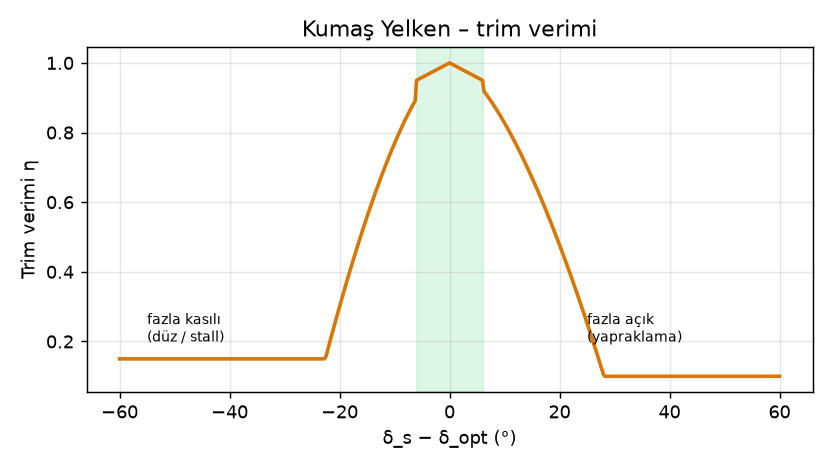
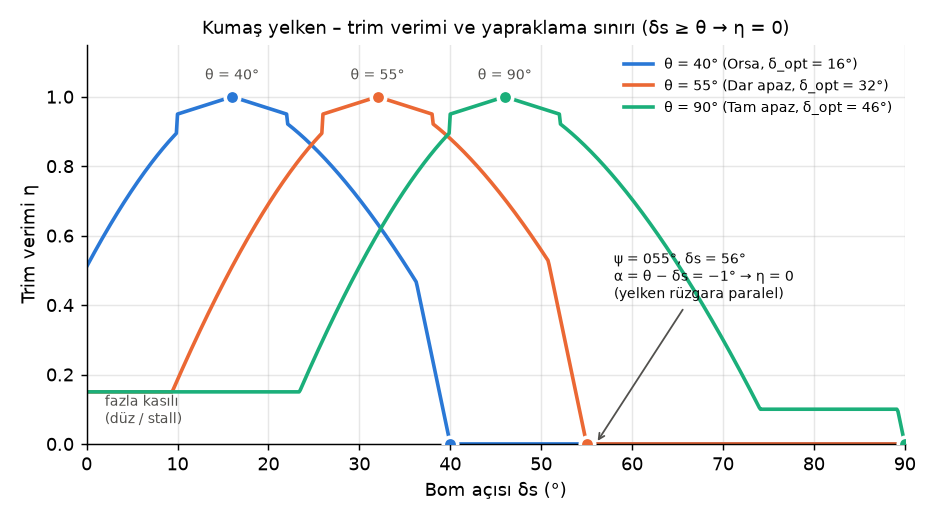
Yelken açısına bağlı yapraklama ve ölü açı
* Trim verimi yelkenin rüzgara hücum açısını (α = TWA − |bom|) hesaba katıyor:
  bom rüzgar yönüne kadar açılınca (α ≤ 0) yelken yapraklar, itki sıfır;
  0 < α < 8° aralığında verim α/8° ile sınırlı. Örn. pruva 055°, bom 56°
  artık 41.7 m değil 0 m gidiyor.
* Ölü açı elle trimde ±max(30°, |bom|): arayüzdeki kama, sınır etiketleri,
  seyir tipi ve uyarılar bom açısıyla güncelleniyor. Auto-trim ve navigasyon
  sonuçları değişmiyor.
* Testler, trim verimi grafiği ve RAPOR.md (Adım 1, Adım 3, Bölüm 8, H9–H10).

diff --git a/app.py b/app.py
@@ -146,14 +146,20 @@ analyze_points_of_sail_360 = sm.analyze_points_of_sail_360
 # --- SİMÜLASYON VE ÇİZİM ÇEKİRDEĞİ ---
 def simulate_catamaran(heading_deg, sail_input_deg, rudder_deg, wind_speed_ms, sim_time_s, auto_trim=False, phys=sm.PHYS):
     """
-    330°-030° Ölü Açı sektörü, kumaş yelken poları, dümen kinematiği ve merkezi katamaran
+    Bom açısına bağlı ölü açı sektörü, kumaş yelken poları, dümen kinematiği ve merkezi katamaran
     görselleştirmesi (tek yelken modeli: Kumaş Yelken – Cambered / Klasik).
     """
     profile = sm.PROFILE
 
     # 1. BAŞLANGIÇ SEYİR DURUMU (360 Derece Analiz):
-    regime, opt_sail, max_speed_ratio, tack, wind_side, leeward_sign, desc = sm.analyze_points_of_sail_360(heading_deg)
-    is_in_irons = (regime == sm.NO_GO_REGIME)
+    # Ölü açı ±max(30°, |bom|): bom elle açıldıkça yelken rüzgara paralel kalacağı sektör genişler
+    manual_sail = None if auto_trim else sail_input_deg
+    regime, opt_sail, max_speed_ratio, tack, wind_side, leeward_sign, desc = sm.analyze_points_of_sail_360(
+        heading_deg, sail_deg=manual_sail)
+    twa = sm.true_wind_angle(heading_deg)
+    dead_zone = sm.dead_zone_deg(manual_sail)
+    is_in_irons = twa <= sm.NO_GO_DEG           # teknenin kendi sınırı: hiçbir bom açısında itki yok
+    in_dead_zone = (regime == sm.NO_GO_REGIME)  # bom açısına göre ölü açı: yelken yapraklar, itki yok
 
     # Otomatik trim seçeneği veya kullanıcının ayarı
     if auto_trim and not is_in_irons:
@@ -165,7 +171,8 @@ def simulate_catamaran(heading_deg, sail_input_deg, rudder_deg, wind_speed_ms, s
     if is_in_irons:
         trim_efficiency, trim_status, badge_type, camber_amount = 0.0, "Yelken Dolmuyor (Yapraklıyor)", "badge-dead", 0.0
     else:
-        trim_efficiency, trim_status, badge_type, camber_amount = sm.trim_efficiency(sail_boom_angle, opt_sail, profile)
+        trim_efficiency, trim_status, badge_type, camber_amount = sm.trim_efficiency(
+            sail_boom_angle, opt_sail, profile, twa)
 
     # 3. DÜMEN VE FRENLEME ETKİSİ:
     rudder_clamped = float(np.clip(rudder_deg, -sm.RUDDER_MAX_DEG, sm.RUDDER_MAX_DEG))
@@ -188,12 +195,21 @@ def simulate_catamaran(heading_deg, sail_input_deg, rudder_deg, wind_speed_ms, s
     fig.patch.set_facecolor('#ffffff')
     ax.set_facecolor('#f8fafc')
 
-    # 1. ÖLÜ AÇI (NO-GO ZONE) 330° - 030° SEKTÖRÜ (60 DERECE):
-    # Matematiksel açılar: 030° pusula = 60° mat, 330° pusula = 120° mat
-    no_go_wedge = Wedge((0, 0), 8.5, 60, 120, facecolor='#fee2e2', edgecolor='#ef4444', 
+    # 1. ÖLÜ AÇI (NO-GO ZONE) SEKTÖRÜ: rüzgar ekseni etrafında ±dead_zone (30°, bom elle açıldıkça genişler)
+    # Matematiksel açı = 90° − pusula açısı: ±dead_zone pusula -> [90° − dead_zone, 90° + dead_zone] mat
+    no_go_wedge = Wedge((0, 0), 8.5, 90 - dead_zone, 90 + dead_zone, facecolor='#fee2e2', edgecolor='#ef4444',
                         alpha=0.32, linestyle='--', lw=1.2, zorder=1)
     ax.add_patch(no_go_wedge)
-    ax.text(0, 5.5, "ÖLÜ AÇI (NO-GO ZONE)\n330° - 030° (Rüzgara Karşı)", 
+    no_go_txt = f"ÖLÜ AÇI (NO-GO ZONE)\n{360 - dead_zone:03.0f}° - {dead_zone:03.0f}° (Rüzgara Karşı)"
+    show_hull_limit = dead_zone - sm.NO_GO_DEG >= 10.0   # 030°/330° sınırı yalnızca bom sınırından ayrışınca çizilir
+    if dead_zone > sm.NO_GO_DEG:
+        no_go_txt += f"\nbom {sail_boom_angle:.0f}° açık → ±{dead_zone:.0f}°"
+    if show_hull_limit:
+        # Teknenin kendi sınırı (±30°): bom kasılsa bile bu sektörde itki yok
+        for sgn in (-1.0, 1.0):
+            ax.plot([0, sgn * 8.5 * np.sin(np.radians(sm.NO_GO_DEG))], [0, 8.5 * np.cos(np.radians(sm.NO_GO_DEG))],
+                    color='#ef4444', linestyle=':', lw=1.0, alpha=0.6, zorder=1)
+    ax.text(0, 5.5, no_go_txt,
             ha='center', va='center', color='#b91c1c', fontweight='bold', fontsize=8.2, zorder=2)
 
     # 2. Dairesel Pusula Kılavuzları (2m, 4m, 6m, 8m)
@@ -207,9 +223,13 @@ def simulate_catamaran(heading_deg, sail_input_deg, rudder_deg, wind_speed_ms, s
     ax.text(0, -8.4, "180° GÜNEY", ha='center', va='top', fontsize=8.8, fontweight='bold', color='#1e293b')
     ax.text(-8.4, 0, "270° BATI", ha='right', va='center', fontsize=8.8, fontweight='bold', color='#1e293b')
 
-    # Ölü açı sınırları (030° ve 330°)
-    ax.text(4.3, 7.3, "030°", ha='left', va='bottom', fontsize=8.2, fontweight='bold', color='#dc2626')
-    ax.text(-4.3, 7.3, "330°", ha='right', va='bottom', fontsize=8.2, fontweight='bold', color='#dc2626')
+    # Ölü açı sınırları: teknenin sınırı (030° / 330°) ve bom genişlettiyse bom sınırı (pusula yönlerine çakışmadan)
+    edges = ([sm.NO_GO_DEG] if dead_zone == sm.NO_GO_DEG or show_hull_limit else []) + \
+            ([dead_zone] if sm.NO_GO_DEG < dead_zone <= 75.0 else [])
+    for edge in edges:
+        ex, ey = 8.5 * np.sin(np.radians(edge)), 8.5 * np.cos(np.radians(edge))
+        ax.text(ex, ey, f"{edge:03.0f}°", ha='left', va='bottom', fontsize=8.2, fontweight='bold', color='#dc2626')
+        ax.text(-ex, ey, f"{360 - edge:03.0f}°", ha='right', va='bottom', fontsize=8.2, fontweight='bold', color='#dc2626')
     ax.text(6.0, -6.0, "135°", ha='center', va='center', fontsize=7.8, color='#64748b')
     ax.text(-6.0, -6.0, "225°", ha='center', va='center', fontsize=7.8, color='#64748b')
 
@@ -293,7 +313,7 @@ def simulate_catamaran(heading_deg, sail_input_deg, rudder_deg, wind_speed_ms, s
     tip_ly = 0.2 + boom_len * u_chord[1]
     tip_w = rot(tip_lx, tip_ly)
 
-    if is_in_irons:
+    if in_dead_zone:
         num_w = 20
         wt = np.linspace(0, 1, num_w)
         wave_lx = wt * tip_lx + 0.15 * np.sin(4 * np.pi * wt)
@@ -325,7 +345,7 @@ def simulate_catamaran(heading_deg, sail_input_deg, rudder_deg, wind_speed_ms, s
         ax.add_patch(patches.Polygon(fill_poly_w, closed=True, facecolor='#2563eb', alpha=0.22, zorder=7))
 
     # 8. TEKNENİN GİTTİĞİ DOĞRULTU VE SİMÜLASYON YOLU:
-    if total_distance_m > 1.0 and not is_in_irons:
+    if total_distance_m > 1.0 and not in_dead_zone:
         max_dist_to_show = max(total_distance_m, 1.0)
         scale_factor = min(1.0, 7.2 / max_dist_to_show)
         scaled_tx = [x * scale_factor for x in traj_x]
@@ -354,7 +374,14 @@ def simulate_catamaran(heading_deg, sail_input_deg, rudder_deg, wind_speed_ms, s
                 bbox=dict(boxstyle='round,pad=0.25', facecolor='#d1fae5', edgecolor='#10b981', alpha=0.95),
                 zorder=15)
     else:
-        ax.text(0, 0, "[!] ÖLÜ AÇI / İTKİ YOK\nYelken Dolmuyor (Kör Nokta)", color='#b91c1c', fontsize=8.5, fontweight='bold',
+        if is_in_irons:
+            no_drive_txt = "[!] ÖLÜ AÇI / İTKİ YOK\nYelken Dolmuyor (Kör Nokta)"
+        elif in_dead_zone:
+            no_drive_txt = (f"[!] ÖLÜ AÇI / İTKİ YOK: Bom ({sail_boom_angle:.0f}°) ≥ Rüzgar Açısı ({twa:.0f}°)\n"
+                            f"Yelken rüzgara paralel, yapraklıyor – bomu {opt_sail:.0f}°'ye kasın")
+        else:
+            no_drive_txt = f"[!] İTKİ ÇOK DÜŞÜK\n{sim_time_s:.0f} sn'de {total_distance_m:.1f} m"
+        ax.text(0, 0, no_drive_txt, color='#b91c1c', fontsize=8.5, fontweight='bold',
                 ha='center', va='center', bbox=dict(boxstyle='round,pad=0.35', facecolor='#fee2e2', edgecolor='#ef4444'),
                 zorder=15)
 
@@ -405,7 +432,7 @@ def simulate_catamaran(heading_deg, sail_input_deg, rudder_deg, wind_speed_ms, s
 
 # --- STREAMLIT ARAYÜZÜ ---
 st.markdown("## ⛵ Otonom Yelkenli Katamaran ve Saildrone Simülatörü")
-st.caption("360° Pusula Seyirleri • 330°-030° Ölü Açı • Kumaş Yelken (Cambered / Klasik) Polar Modeli • Realist Dümen")
+st.caption("360° Pusula Seyirleri • Ölü Açı ±max(30°, bom) • Kumaş Yelken (Cambered / Klasik) Polar Modeli • Realist Dümen")
 
 # --- TEKNENİN FİZİKSEL PARAMETRELERİ (KENAR ÇUBUĞU) ---
 # Her iki sekme de bu değerlerle kurulan sm.Physics nesnesini kullanır; değişiklikte sayfa yeniden
@@ -501,7 +528,7 @@ with tab_free:
             max_val=360,
             default_val=90,
             step=1,
-            help_text="330°-030°: Ölü Açı (60° No-Go), 030°-050°: Orsa, 050°-080°: Dar Apaz, 090°: Tam Apaz (En Hızlı), 135°: Geniş Apaz, 180°: Pupa, 270°: Sancak Kontra Tam Apaz."
+            help_text="330°-030°: Ölü Açı (60° No-Go; bom elle 30°'den fazla açılırsa ±bom açısına genişler), 030°-050°: Orsa, 050°-080°: Dar Apaz, 090°: Tam Apaz (En Hızlı), 135°: Geniş Apaz, 180°: Pupa, 270°: Sancak Kontra Tam Apaz."
         )
 
         # 3. Yelken Açısı ve Otomatik Trim
@@ -571,7 +598,8 @@ with tab_free:
                 </tbody>
             </table>
             <div style="font-size:0.75rem; color:#64748b; margin-top:5px;">
-            * Ölü Açı: 330° - 030° (TWA ≤ 30°): itki yok. Hız = λ × U × oran × trim verimi × dümen cezası
+            * Ölü Açı: TWA ≤ max(30°, bom açısı): itki yok. 330° - 030° teknenin kendi sınırıdır; bom rüzgar yönüne
+            kadar açılırsa (TWA ≤ bom) yelken rüzgara paralel kalıp yapraklar. Hız = λ × U × oran × trim verimi × dümen cezası
             (λ = hız ölçeği, varsayılan teknede 1; kenar çubuğundaki fiziksel parametrelerden türetilir).
             </div>
             """, unsafe_allow_html=True)
@@ -635,8 +663,14 @@ with tab_free:
         with st.expander("🧮 Kuvvet ve Moment Hesabı (kararlı hızda, N ve N·m)", expanded=False):
             fm = sm.force_moment_breakdown(boat_heading_val, sail_angle_val, rudder_angle_val,
                                            float(wind_speed_val), auto_trim=auto_trim_active, phys=phys)
-            if fm["drive"] == 0.0:
+            if fm["drive"] == 0.0 and fm["twa"] <= sm.NO_GO_DEG:
                 st.warning("Tekne ölü açıda: yelken yapraklıyor, itki ve yelken kuvveti sıfır; hız olmadığı için dümen de moment üretmez.")
+            elif fm["drive"] == 0.0:
+                st.warning(f"Bom ({fm['sail']:.0f}°) rüzgar açısına (TWA {fm['twa']:.0f}°) kadar boşlanmış, tekne bu bom "
+                           f"açısının ölü açısında (±{sm.dead_zone_deg(fm['sail']):.0f}°): hücum açısı "
+                           f"α = TWA − bom = {fm['twa'] - fm['sail']:.0f}° ≤ 0. Yelken rüzgara paralel, yapraklıyor; "
+                           f"itki ve yelken kuvveti sıfır. Bomu {fm['twa'] - sm.LUFF_DEG:.0f}°'nin altına kasın "
+                           f"(optimum {fm['opt']:.0f}°).")
             else:
                 st.markdown(f"""
 | Adım | Formül | Değer |

diff --git a/saildrone_model.py b/saildrone_model.py
@@ -22,7 +22,8 @@ import numpy as np
 # --- MODEL SABİTLERİ ---
 # L_HULL, RUDDER_DRAG, WEATHER_HELM_DPS ve TAU_SURGE varsayılan tekneye (Physics()) aittir;
 # kullanıcı parametreleriyle çalışan fonksiyonlar bunları phys argümanından türetir.
-NO_GO_DEG = 30.0            # Ölü açı yarı genişliği (TWA <= 30° -> itki yok)
+NO_GO_DEG = 30.0            # Teknenin ölü açı sınırı (TWA <= 30° -> itki yok); elle trimde bkz. dead_zone_deg
+LUFF_DEG = 8.0              # Yelkenin tam dolması için gereken asgari hücum açısı α = TWA − |bom| (°)
 L_HULL = 4.6                # Dönüş kinematiğinde kullanılan efektif gövde boyu (m)
 RUDDER_MAX_DEG = 35.0       # Dümen mekanik sınırı
 RUDDER_DRAG = 0.22          # Tam dümende hız kaybı oranı
@@ -56,7 +57,8 @@ POLAR = {
 TRIM = {
     "cloth": dict(tol=6.0, loss=0.05, under=(25.0, 1.6, 0.15), over=(30.0, 1.6, 0.10),
                   camber=(0.45, 0.18, 0.22), full="Tam Trim (Yelken Dolu / Torlu)",
-                  under_txt="Fazla Kasılı (Düz / Stall)", over_txt="Fazla Açık (Yapraklama)"),
+                  under_txt="Fazla Kasılı (Düz / Stall)", over_txt="Fazla Açık (Yapraklama)",
+                  luff_txt="Rüzgara Paralel (Tam Yapraklama – İtki Yok)"),
 }
 
 DESC = {
@@ -156,6 +158,17 @@ def leeward_sign(heading_deg):
     return 1.0 if h <= 180.0 else -1.0
 
 
+def dead_zone_deg(sail_deg=None):
+    """
+    Ölü açı yarı genişliği (°): rüzgar pruvaya bu açıdan dar gelirse yelken itki üretemez.
+    * NO_GO_DEG teknenin kendi sınırıdır: bom ne kadar kasılırsa kasılsın yelken kuvveti neredeyse tamamen
+      yana yönelir, ileri bileşeni direnci yenemez. Auto-trim'de (sail_deg None) ölü açı budur.
+    * Bom elle |δs| açılmışsa yelken TWA ≤ |δs|'de rüzgara paralel kalır ve yapraklar (α = TWA − |δs| ≤ 0),
+      bu yüzden ölü açı max(NO_GO_DEG, |δs|)'ye genişler.
+    """
+    return NO_GO_DEG if sail_deg is None else max(NO_GO_DEG, abs(float(sail_deg)))
+
+
 def band_index(twa):
     """TWA'nın düştüğü bant indeksi; ölü açıda None."""
     if twa <= NO_GO_DEG:
@@ -179,9 +192,11 @@ def signed_sail_angle(heading_deg, profile=PROFILE):
     return leeward_sign(heading_deg) * polar_point(heading_deg, profile)[0]
 
 
-def analyze_points_of_sail_360(heading_deg, profile_name=PROFILE_NAME):
+def analyze_points_of_sail_360(heading_deg, profile_name=PROFILE_NAME, sail_deg=None):
     """
     Seyir durumu analizi. Dönüş: (regime, opt_sail, speed_ratio, tack, wind_side, leeward_sign, desc)
+    sail_deg verilirse (elle trim) ölü açı bom açısına göre genişler (dead_zone_deg); auto-trim'de None.
+    Bom yüzünden ölü açıdaysa kontra ve rüzgar altı bordası korunur, opt_sail kasılması gereken açıdır.
     """
     profile = profile_key(profile_name)
     h = wrap360(heading_deg)
@@ -207,16 +222,28 @@ def analyze_points_of_sail_360(heading_deg, profile_name=PROFILE_NAME):
         regime = f"Sancak Kontra {name_tr} ({name_en})"
         tack = "Sancak Kontra"
         wind_side = "Sancak (Sağ)"
+    dz = dead_zone_deg(sail_deg)
+    if twa <= dz:
+        sail = abs(float(sail_deg))
+        return (NO_GO_REGIME, opt_sail, 0.0, tack, wind_side, lee,
+                f"Bom {sail:.0f}° açık, rüzgar pruvaya {twa:.0f}° geliyor: yelken rüzgara paralel kalır ve yapraklar "
+                f"(hücum açısı α = TWA − bom = {twa - sail:.0f}° ≤ 0), itki sıfırdır. Bu bom açısında ölü açı "
+                f"{360.0 - dz:03.0f}°–{dz:03.0f}° (±{dz:.0f}°) olur. Bomu {opt_sail:.0f}°'ye kasın.")
     return regime, opt_sail, ratio, tack, wind_side, lee, DESC[profile][i]
 
 
-def trim_efficiency(sail_deg, opt_deg, profile=PROFILE):
+def trim_efficiency(sail_deg, opt_deg, profile=PROFILE, twa=None):
     """
     Bom açısı ile optimum açı farkına göre aerodinamik trim verimi.
+    twa verilirse yelken kirişinin gerçek rüzgara hücum açısı α = TWA − |bom| de hesaba katılır:
+    bom rüzgar yönüne kadar boşlanınca (α ≤ 0) yelken rüzgara paralel kalır, bayrak gibi yapraklar
+    ve itki sıfırdır; 0 < α < LUFF_DEG aralığında orsa yakası çırpar, verim α / LUFF_DEG'i aşamaz.
     Dönüş: (eta, durum metni, rozet tipi, tor miktarı)
     """
     p = TRIM[profile]
     sail = abs(sail_deg)
+    if twa is not None and twa - sail <= 0.0:
+        return 0.0, p["luff_txt"], "badge-dead", 0.0
     d = abs(sail - opt_deg)
     if d <= p["tol"]:
         return 1.0 - (d / p["tol"]) * p["loss"], p["full"], "badge-full", p["camber"][0]
@@ -224,7 +251,11 @@ def trim_efficiency(sail_deg, opt_deg, profile=PROFILE):
         scale, expo, floor = p["under"]
         return max(floor, 1.0 - (d / scale) ** expo), p["under_txt"], "badge-warn", p["camber"][1]
     scale, expo, floor = p["over"]
-    return max(floor, 1.0 - (d / scale) ** expo), p["over_txt"], "badge-warn", p["camber"][2]
+    eta = max(floor, 1.0 - (d / scale) ** expo)
+    if twa is not None:
+        # α yalnızca bom boşlandıkça küçülür: polar optimumu ± tol içinde her bantta α > LUFF_DEG kalır
+        eta = min(eta, (twa - sail) / LUFF_DEG)
+    return eta, p["over_txt"], "badge-warn", p["camber"][2]
 
 
 def rudder_penalty(rudder_deg, phys=PHYS):
@@ -237,7 +268,7 @@ def target_speed(heading_deg, sail_deg, rudder_deg, profile, wind_ms, auto_trim=
     opt, ratio = polar_point(heading_deg, profile)
     if ratio == 0.0:
         return 0.0
-    eta = 1.0 if auto_trim else trim_efficiency(sail_deg, opt, profile)[0]
+    eta = 1.0 if auto_trim else trim_efficiency(sail_deg, opt, profile, true_wind_angle(heading_deg))[0]
     return wind_ms * ratio * eta * rudder_penalty(rudder_deg, phys) * phys.speed_scale
 
 
@@ -326,7 +357,7 @@ def force_moment_breakdown(heading_deg, sail_deg, rudder_deg, wind_ms, speed_ms=
     opt, ratio = polar_point(psi, profile)
     s = leeward_sign(psi)
     sail = opt if auto_trim else abs(sail_deg)
-    eta = 1.0 if (auto_trim or ratio == 0.0) else trim_efficiency(sail, opt, profile)[0]
+    eta = 1.0 if (auto_trim or ratio == 0.0) else trim_efficiency(sail, opt, profile, true_wind_angle(psi))[0]
     kappa = rudder_penalty(rudder_deg, phys)
     lam = phys.speed_scale
     v_star = wind_ms * ratio * eta * kappa * lam

diff --git a/tests/test_model.py b/tests/test_model.py
@@ -39,6 +39,70 @@ def test_trim_efficiency_peak_and_bounds(profile):
             assert 0.0 < eta <= 1.0
 
 
+@pytest.mark.parametrize("h,sail", [(55, 55), (55, 56), (55, 90), (305, 56), (305, -56), (40, 45), (85, 90)])
+def test_sail_eased_to_wind_direction_luffs(h, sail):
+    """Bom rüzgar yönüne kadar boşlanınca (TWA − bom ≤ 0) yelken rüzgara paraleldir: itki yok, tekne kıpırdamaz."""
+    eta, txt, badge, camber = m.trim_efficiency(sail, m.polar_point(h)[0], "cloth", m.true_wind_angle(h))
+    assert eta == 0.0 and badge == "badge-dead" and camber == 0.0
+    assert m.target_speed(h, sail, 0, "cloth", 8.0) == 0.0
+    r = m.simulate_open_loop(h, sail, 0, "cloth", 8.0, 30.0)
+    assert r["distance"] == 0.0 and r["final_heading"] == h
+    f = m.force_moment_breakdown(h, sail, 0, 8.0)
+    assert f["drive"] == 0.0 and f["side"] == 0.0
+
+
+def test_partial_luff_limits_efficiency():
+    """0 < α < LUFF_DEG: orsa yakası çırpar, verim α / LUFF_DEG ile sınırlı ve bom boşlandıkça düşer."""
+    twa, opt = 55.0, m.polar_point(55)[0]
+    etas = [m.trim_efficiency(s, opt, "cloth", twa)[0] for s in np.arange(twa - m.LUFF_DEG, twa + 0.01, 0.5)]
+    assert all(e <= (twa - s) / m.LUFF_DEG + 1e-12
+               for e, s in zip(etas, np.arange(twa - m.LUFF_DEG, twa + 0.01, 0.5)))
+    assert all(a >= b for a, b in zip(etas, etas[1:])) and etas[-1] == 0.0
+
+
+@pytest.mark.parametrize("twa", np.arange(30.5, 180.01, 0.5))
+def test_luff_limit_leaves_calibrated_trim_unchanged(twa):
+    """Polar optimumu ± tolerans içinde (ve fazla kasılı tarafta) yapraklama sınırı hiç devreye girmez."""
+    opt, tol = m.polar_point(twa)[0], m.TRIM["cloth"]["tol"]
+    for s in np.arange(0.0, min(opt + tol, 90.0) + 0.01, 0.5):
+        assert m.trim_efficiency(s, opt, "cloth", twa) == m.trim_efficiency(s, opt, "cloth")
+
+
+def test_downwind_sail_cannot_be_eased_into_luff():
+    """Bom en fazla 90° açılır: TWA ≥ 90° + LUFF_DEG seyirlerde yelken boşlayarak yapraklatılamaz."""
+    for twa in np.arange(90.0 + m.LUFF_DEG, 180.01, 1.0):
+        opt = m.polar_point(twa)[0]
+        assert m.trim_efficiency(90, opt, "cloth", twa) == m.trim_efficiency(90, opt, "cloth")
+
+
+def test_dead_zone_widens_with_boom_angle():
+    assert m.dead_zone_deg() == m.NO_GO_DEG                       # auto-trim: teknenin kendi sınırı
+    assert m.dead_zone_deg(0) == m.dead_zone_deg(22) == m.NO_GO_DEG
+    assert m.dead_zone_deg(56) == m.dead_zone_deg(-56) == 56.0
+    assert m.dead_zone_deg(90) == 90.0
+
+
+def test_dead_zone_matches_zero_thrust():
+    """Elle trimde tekne tam olarak ölü açının içindeyken (TWA ≤ max(30°, |bom|)) itkisiz kalır."""
+    for h in np.arange(0.0, 360.0, 1.0):
+        for sail in np.arange(0.0, 90.01, 2.0):
+            in_dead = m.true_wind_angle(h) <= m.dead_zone_deg(sail)
+            assert (m.target_speed(h, sail, 0, "cloth", 8.0) == 0.0) == in_dead
+            assert (m.analyze_points_of_sail_360(h, sail_deg=sail)[0] == m.NO_GO_REGIME) == in_dead
+
+
+@pytest.mark.parametrize("h,lee,tack", [(55, 1.0, "İskele Kontra"), (305, -1.0, "Sancak Kontra")])
+def test_boom_dead_zone_keeps_tack_and_trim_hint(h, lee, tack):
+    """Bom yüzünden ölü açıda: hız oranı 0, ama kontra / rüzgar altı bordası ve kasılacak optimum açı korunur."""
+    regime, opt, ratio, t, _, l, desc = m.analyze_points_of_sail_360(h, sail_deg=56)
+    assert regime == m.NO_GO_REGIME and ratio == 0.0
+    assert opt == 32.0 and t == tack and l == lee
+    assert "304°–056°" in desc
+    # aynı pruvada bom kasılınca ölü açıdan çıkar; auto-trim (sail_deg None) pruvaya göre değerlendirilir
+    assert m.analyze_points_of_sail_360(h, sail_deg=40)[0] != m.NO_GO_REGIME
+    assert m.analyze_points_of_sail_360(h)[0] != m.NO_GO_REGIME
+
+
 def test_rudder_penalty():
     assert m.rudder_penalty(0) == 1.0
     assert m.rudder_penalty(35) == pytest.approx(0.78)
@@ -59,8 +123,8 @@ def test_straight_run_distance_equals_speed_times_time(profile, h):
 
 def test_manual_trim_speed_matches_telemetry_formula():
     """Açık çevrimdeki hız ile anlık telemetri hızı aynı verim fonksiyonunu kullanmalı."""
-    for sail in [0, 20, 38, 42, 46, 60, 90]:
-        v_tel = 8.0 * 1.15 * m.trim_efficiency(sail, 46.0, "cloth")[0]
+    for sail in [0, 20, 38, 42, 46, 60, 85, 90]:
+        v_tel = 8.0 * 1.15 * m.trim_efficiency(sail, 46.0, "cloth", twa=90.0)[0]
         r = m.simulate_open_loop(90, sail, 0, "cloth", 8.0, 1.0, tau=0.0)
         assert r["v0"] == pytest.approx(v_tel)
 

diff --git a/analysis/run_experiments.py b/analysis/run_experiments.py
@@ -61,21 +61,30 @@ def fig_polar():
 
 
 def fig_trim():
-    fig, ax0 = plt.subplots(1, 1, figsize=(6.4, 3.6))
-    axes = [ax0]
-    d = np.linspace(-60, 60, 481)
-    for ax, (k, name) in zip(axes, PROFILES.items()):
-        opt = 45.0
-        eta = [m.trim_efficiency(opt + x, opt, k)[0] for x in d]
-        ax.plot(d, eta, color=COLORS[k], lw=2)
-        tol = m.TRIM[k]["tol"]
-        ax.axvspan(-tol, tol, color="#22c55e", alpha=0.15)
-        ax.set_title(name + " – trim verimi")
-        ax.text(-55, 0.2, "fazla kasılı\n(düz / stall)", fontsize=8)
-        ax.text(25, 0.2, "fazla açık\n(yapraklama)", fontsize=8)
-        ax.set_xlabel("δ_s − δ_opt (°)")
-        ax.grid(alpha=0.3)
-    axes[0].set_ylabel("Trim verimi η")
+    """η(δs) üç seyir açısında: optimumda tepe, bom rüzgar yönüne (δs = θ) boşlanınca η = 0 (yapraklama)."""
+    fig, ax = plt.subplots(1, 1, figsize=(7.2, 4.0))
+    sails = np.linspace(0, 90, 721)
+    curves = [(40.0, "Orsa", "#2a78d6"), (55.0, "Dar apaz", "#eb6834"), (90.0, "Tam apaz", "#1baf7a")]
+    for twa, band, color in curves:
+        opt = m.polar_point(twa)[0]
+        eta = [m.trim_efficiency(s, opt, "cloth", twa)[0] for s in sails]
+        ax.plot(sails, eta, color=color, lw=2, label=f"θ = {twa:.0f}° ({band}, δ_opt = {opt:.0f}°)")
+        ax.plot([opt], [1.0], "o", color=color, ms=8, mec="white", mew=2, zorder=5)
+        if twa <= 90.0:
+            ax.plot([twa], [0.0], "o", color=color, ms=8, mec="white", mew=2, zorder=5)
+        ax.text(opt, 1.04, f"θ = {twa:.0f}°", ha="center", va="bottom", fontsize=8, color="#52514e")
+    ax.annotate("ψ = 055°, δs = 56°\nα = θ − δs = −1° → η = 0\n(yelken rüzgara paralel)", xy=(56, 0.0), xytext=(58, 0.42),
+                fontsize=8, color="#0b0b0b", arrowprops=dict(arrowstyle="->", color="#52514e", lw=1))
+    ax.text(2, 0.06, "fazla kasılı\n(düz / stall)", fontsize=8, color="#52514e")
+    ax.set_xlim(0, 90)
+    ax.set_ylim(0, 1.15)
+    ax.set_xlabel("Bom açısı δs (°)")
+    ax.set_ylabel("Trim verimi η")
+    ax.set_title("Kumaş yelken – trim verimi ve yapraklama sınırı (δs ≥ θ → η = 0)", fontsize=10)
+    ax.legend(loc="upper right", fontsize=8, frameon=False)
+    ax.grid(alpha=0.3)
+    for side in ("top", "right"):
+        ax.spines[side].set_visible(False)
     fig.tight_layout()
     fig.savefig(os.path.join(FIG, "trim_efficiency.png"), dpi=130)
     plt.close(fig)
